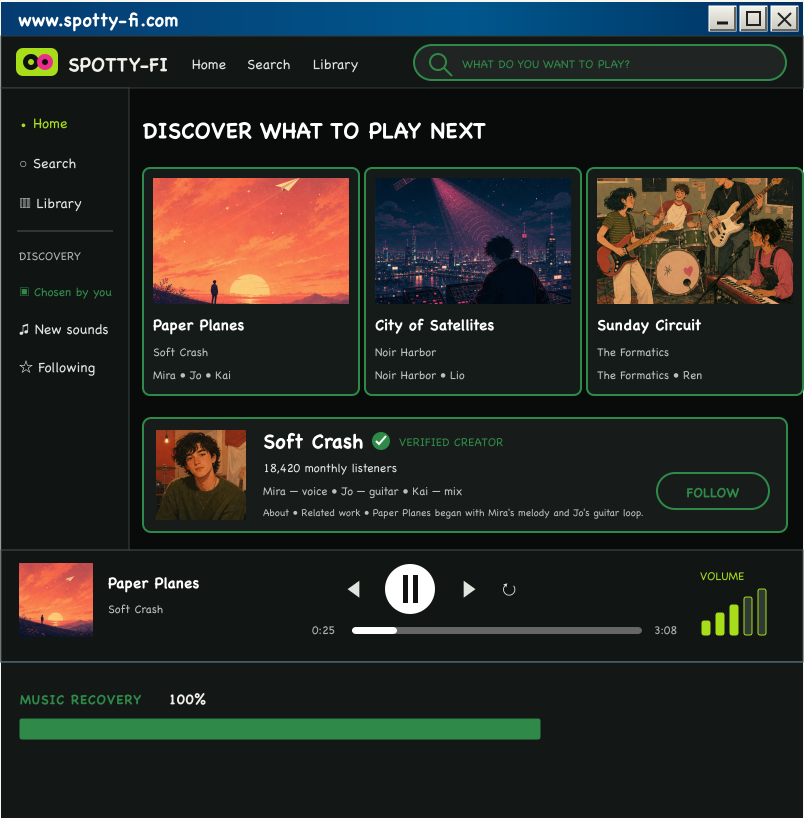
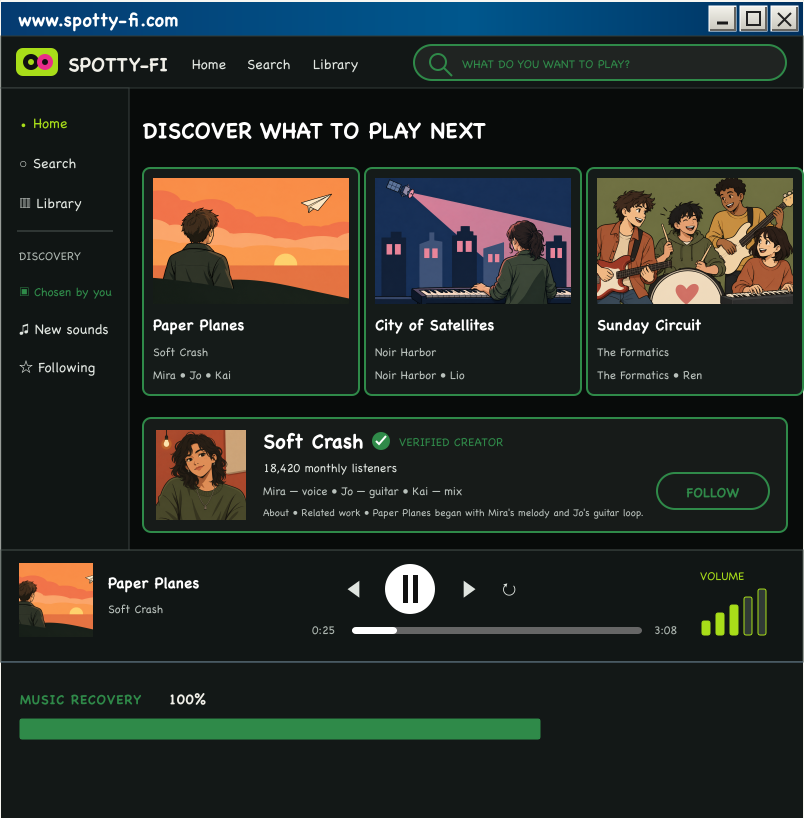
Match Spotify artist art style and balance featured representation (#151)

diff --git a/apps/internet-recovery/endgame-playtest-content.js b/apps/internet-recovery/endgame-playtest-content.js
@@ -151,7 +151,7 @@ export const ENDGAME_SITE_FIXTURES = Object.freeze(ENDGAME_SITE_ORDER.map((id, i
     name: mission.name,
     markImage: site.markImage,
     autoFrame: `/walkthroughs/endgame/site-crops/${id}-auto-site-v1.png?v=${id === "mapguess" ? "20260920-mapguess-layout-v6" : id === "wikiwhy" ? "20260920-layout-polish-v1" : ["viewtube", "spotty-fi", "amaze-on", "faceplace", "threadit", "searchish", "yahuh", "mycorner"].includes(id) ? "20260920-layout-polish-v1" : "20260825-endgame-v2"}`,
-    recoveredFrame: `/walkthroughs/endgame/site-crops/${id}-recovered-site-v1.png?v=${id === "mapguess" ? "20260920-mapguess-layout-v6" : id === "wikiwhy" ? "20260920-layout-polish-v1" : ["viewtube", "spotty-fi", "amaze-on", "faceplace", "threadit", "searchish", "yahuh", "mycorner"].includes(id) ? "20260920-layout-polish-v1" : "20260825-endgame-v2"}`,
+    recoveredFrame: `/walkthroughs/endgame/site-crops/${id}-recovered-site-v1.png?v=${id === "spotty-fi" ? "20260921-spotty-art-v5" : id === "mapguess" ? "20260920-mapguess-layout-v6" : id === "wikiwhy" ? "20260920-layout-polish-v1" : ["viewtube", "spotty-fi", "amaze-on", "faceplace", "threadit", "searchish", "yahuh", "mycorner"].includes(id) ? "20260920-layout-polish-v1" : "20260825-endgame-v2"}`,
     superFrame: mission.superFrame,
     securedFrame: mission.securedFrame,
     savedLesson: mission.autoLesson,

diff --git a/apps/internet-recovery/playable-walkthroughs.js b/apps/internet-recovery/playable-walkthroughs.js
@@ -14,7 +14,7 @@ const STATIC_VOCABULARY_AUDIO_SITE_IDS = new Set([
 ]);
 
 function frame(directory, prefix, page) {
-  if (directory === "spotty-fi") return `/walkthroughs/${directory}/${prefix}_p${page}.png?v=20260921-spotty-art-v4`;
+  if (directory === "spotty-fi") return `/walkthroughs/${directory}/${prefix}_p${page}.png?v=20260921-spotty-art-v5`;
   if (directory === "mapguess") return `/walkthroughs/${directory}/${prefix}_p${page}.png?v=20260920-mapguess-layout-v6`;
   if (["viewtube", "spotty-fi", "amaze-on", "faceplace", "threadit", "searchish", "yahuh", "mycorner"].includes(directory)) return `/walkthroughs/${directory}/${prefix}_p${page}.png?v=20260920-layout-polish-v1`;
   if (directory === "wikiwhy") return `/walkthroughs/${directory}/${prefix}_p${page}.png?v=20260921-repair-order`;

diff --git a/docs/design/screens/2026-08-15/spotty-fi-production/artist-update-2026-09-21.md b/docs/design/screens/2026-08-15/spotty-fi-production/artist-update-2026-09-21.md
@@ -1,0 +1,11 @@
+# Spotify artwork update
+
+Built-in image_gen; no external API. Final assets:
+- docs/design/screens/2026-08-15/non-wikiwhy-bookends/artist-portrait-v2.png
+- docs/design/screens/2026-08-15/non-wikiwhy-bookends/album-satellite-v5.png
+
+## Final portrait prompt
+Edit this square illustrated musician portrait. Make the subject a young adult WOMAN musician with shoulder-length dark wavy hair, a friendly relaxed smile, warm tan skin, small hoop earrings, olive green crewneck sweater and simple pendant. Preserve the warm terracotta rehearsal room with one bulb and cream acoustic panel; preserve the clean cartoon style with bold dark outlines and simple cel shading. Designed for a very small 90x90 game artist thumbnail: hair in a few broad clumps, simple expressive face, few clothing folds, no microtexture. Keep same head-and-shoulders composition, warm palette and level of simplification. No text or border.
+
+## Final City of Satellites prompt
+Edit this landscape cartoon album cover. Change ONLY the keyboard musician to a young adult WOMAN with dark shoulder-length hair tied in a loose ponytail and a recognizable feminine three-quarter profile, wearing the same olive green jacket. Keep her playing the keyboard, shown mostly from behind in the same location and size. Preserve the exact simple cartoon style: bold dark lines, broad flat shapes, minimal cel shading. Preserve the midnight navy and dusty blue palette, pink satellite beam, same satellite, same five simple skyline buildings with two windows each, same keyboard and composition. Keep thumbnail readability at196x126. No additional background detail, no text, no borders, no realism or texture.
